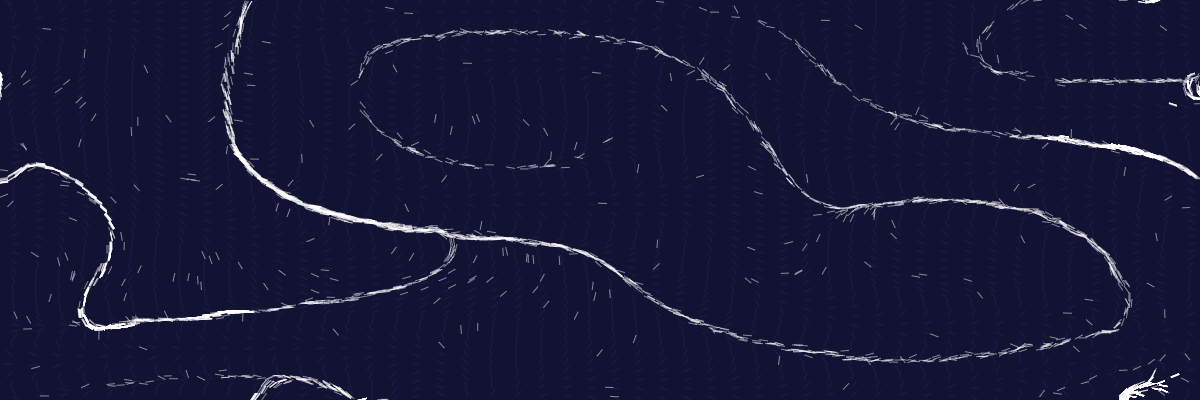
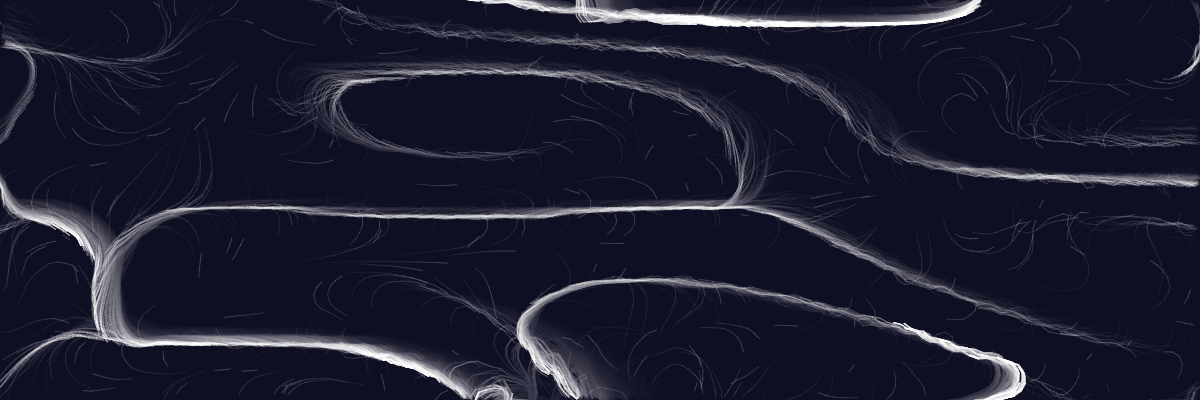
updating flowfield + particlesystem

diff --git a/scss/_header.scss b/scss/_header.scss
@@ -1,13 +1,18 @@
-header{
-    margin: 20px 2px;
-    padding: 10px;
-    border-bottom: solid 3px #FB3550;
+a{
+    text-decoration: none;
+    
+    header{
+        margin: 20px 2px;
+        padding: 10px;
+        border-bottom: solid 3px #FB3550;
 
-    h1{
-        color: #FB3550;
-        font-family: 'Roboto', 'Helvetica', 'Arial', sans-serif;
-        text-align: left;
-        font-size: 20px;
-        font-weight: 800;
+        h1{
+            text-decoration: none !important;
+            color: #FB3550;
+            font-family: 'Roboto', 'Helvetica', 'Arial', sans-serif;
+            text-align: left;
+            font-size: 20px;
+            font-weight: 800;
+        }
     }
 }

diff --git a/_posts/2016-05-27-Particle-System-with-PVectorjs.md b/_posts/2016-05-27-Particle-System-with-PVectorjs.md
@@ -1,16 +1,10 @@
 ---
 layout: code
-title: Particle System with PVectorjs
+title: FlowField and Particle System with PVectorjs
 image: Particle-System-with-PVectorjs.png
 categories: [ js, canvas, pvectorjs ]
 deps: [ 'https://cdn.rawgit.com/MAKIO135/pvectorjs/master/build/pvector.min.js', 'https://cdn.rawgit.com/jwagner/simplex-noise.js/master/simplex-noise.min.js' ]
 ---
-<style>
-    canvas{
-        background:#000;
-    }
-</style>
-
 <canvas id="cnvs"></canvas>
 
 <script>
@@ -106,7 +100,7 @@ deps: [ 'https://cdn.rawgit.com/MAKIO135/pvectorjs/master/build/pvector.min.js',
         };
 
         ParticleSystem.prototype.run = function(field) {
-            context.strokeStyle = 'rgba(255,255,255,0.5)';
+            context.strokeStyle = 'rgba(255,255,255,0.2)';
             this.particles.forEach(function(p){
                 p.applyForce( field.getForce( p.loc ) );
                 p.update();
@@ -171,7 +165,6 @@ deps: [ 'https://cdn.rawgit.com/MAKIO135/pvectorjs/master/build/pvector.min.js',
         };
 
         function setup(){
-            context.strokeStyle = 'black';
 
             simplex = new SimplexNoise();
             flowfield = new FlowField(50,50,40);
@@ -179,17 +172,22 @@ deps: [ 'https://cdn.rawgit.com/MAKIO135/pvectorjs/master/build/pvector.min.js',
             frame = 0;
 
             flowfield.update(frame);
+
+            context.fillStyle = 'rgba( 15, 15, 33, 1 )';
+            context.fillRect(0,0,width,height);
+
             animate();
         }
 
         function animate(){
             window.requestAnimationFrame(animate);
             
-            context.fillStyle = '#121233';
+            // context.fillStyle = '#121233';
+            context.fillStyle = 'rgba( 15, 15, 33, .1 )';
             context.fillRect(0,0,width,height);
 
-            flowfield.update(frame/600);
-            flowfield.display();
+            flowfield.update(frame/300);
+            // flowfield.display();
 
             particleSystem.run(flowfield);
 
